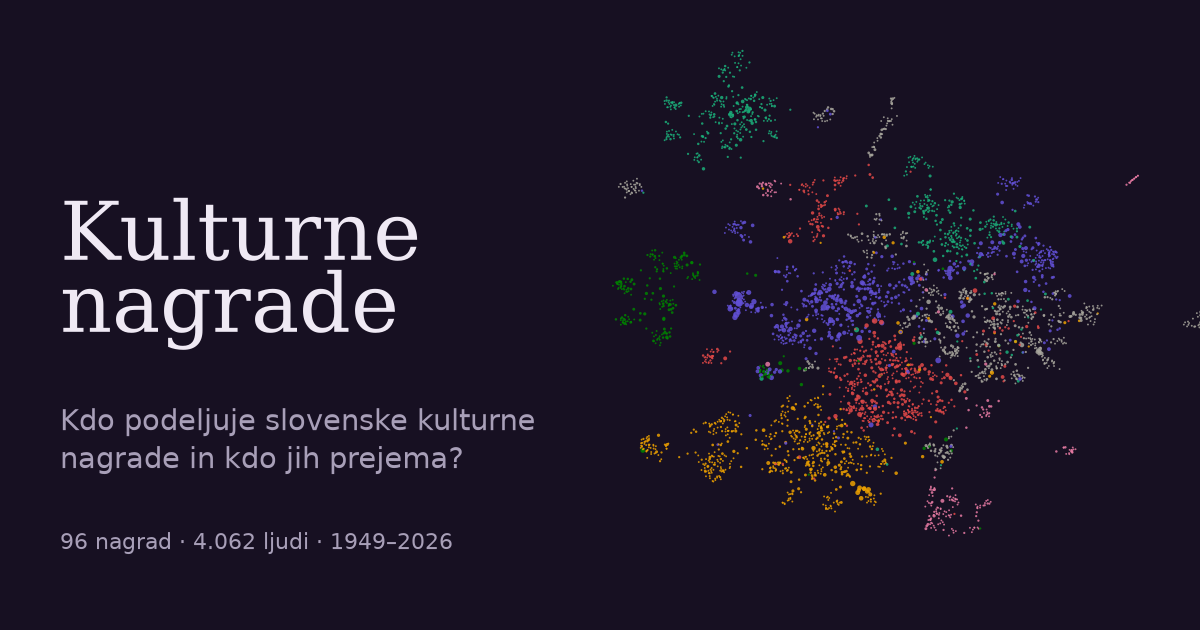
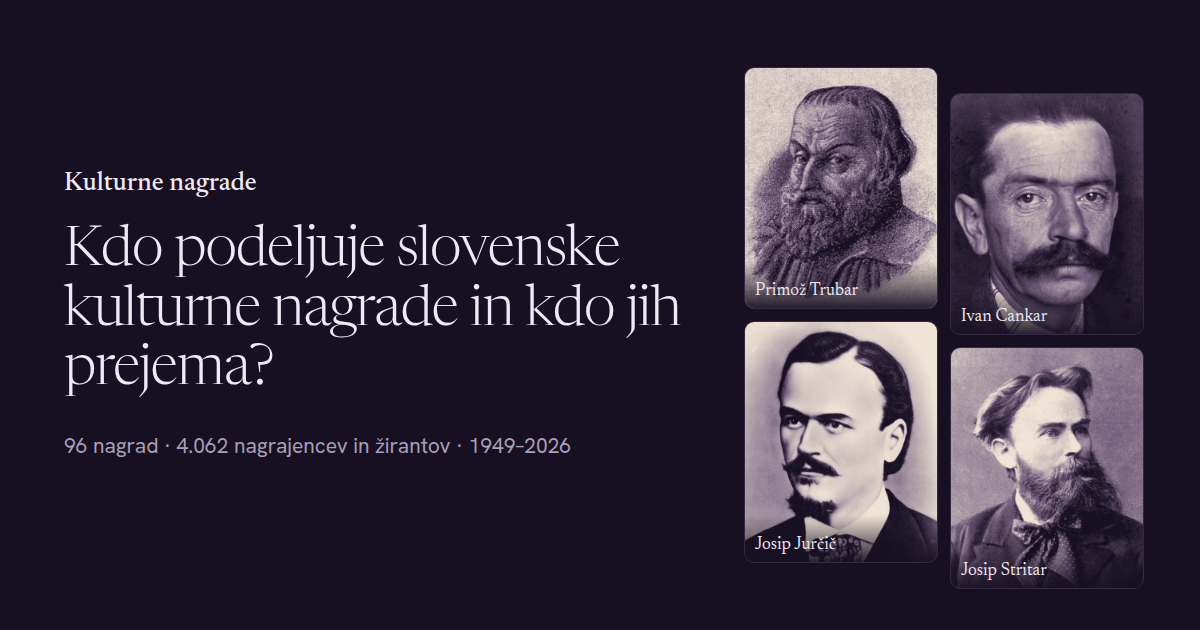
Home page: portraits of four award namesakes instead of the network map; new share card
Trubar, Cankar, Jurčič and Stritar (Wikimedia Commons, public domain; originals in
docs/img) toned to the site palette, each linking to the award named after them. The
default Open Graph card is rendered from HTML with headless Chrome in the site's fonts.
deploy_site.py uploads only files changed since the last upload (hash manifest).

diff --git a/src/kulturne_nagrade/site_export.py b/src/kulturne_nagrade/site_export.py
@@ -20,6 +20,7 @@ import json
 import math
 import shutil
 from collections import defaultdict
+from pathlib import Path
 
 import pandas as pd
 
@@ -215,9 +216,72 @@ def map_points(meta: dict) -> dict | None:
     return {"fields": fields, "points": pts}
 
 
+FACES = [("trubar", "Primož Trubar"), ("cankar", "Ivan Cankar"), ("jurcic", "Josip Jurčič"),
+         ("stritar", "Josip Stritar")]  # site/public/img/obrazi, as on the home page
+
+OG_HTML = """<!doctype html><html lang="sl"><head><meta charset="utf-8"><style>
+@font-face {{ font-family: N; font-weight: 200 800; src: url("{fonts}/newsreader/files/newsreader-latin-opsz-normal.woff2"); }}
+@font-face {{ font-family: N; font-weight: 200 800; src: url("{fonts}/newsreader/files/newsreader-latin-ext-opsz-normal.woff2");
+  unicode-range: U+0100-024F, U+1E00-1EFF, U+2020, U+20A0-20AB, U+20AD-20C0, U+2113, U+2C60-2C7F, U+A720-A7FF; }}
+@font-face {{ font-family: H; font-weight: 100 900; src: url("{fonts}/hanken-grotesk/files/hanken-grotesk-latin-wght-normal.woff2"); }}
+@font-face {{ font-family: H; font-weight: 100 900; src: url("{fonts}/hanken-grotesk/files/hanken-grotesk-latin-ext-wght-normal.woff2");
+  unicode-range: U+0100-024F, U+1E00-1EFF, U+2020, U+20A0-20AB, U+20AD-20C0, U+2113, U+2C60-2C7F, U+A720-A7FF; }}
+* {{ box-sizing: border-box; margin: 0; }}
+html, body {{ width: 1200px; height: 630px; overflow: hidden; background: #171022; color: #efe9f4; }}
+body {{ display: grid; grid-template-columns: 640px 1fr; padding: 0 56px 0 64px; gap: 40px; align-items: center; }}
+.brand {{ font: 500 26px N, serif; margin-bottom: 26px; }}
+h1 {{ font: 300 56px/1.06 N, serif; letter-spacing: -.02em; font-variation-settings: "opsz" 72; }}
+.nums {{ font: 400 21px H, sans-serif; color: #a89fb8; margin-top: 30px; }}
+.faces {{ display: grid; grid-template-columns: 1fr 1fr; gap: 12px; }}
+.face {{ position: relative; border-radius: 10px; overflow: hidden; border: 1px solid #322845; }}
+.face:nth-child(2n) {{ transform: translateY(26px); }}
+.face img {{ display: block; width: 100%; aspect-ratio: 4 / 5; object-fit: cover; }}
+.face span {{ position: absolute; left: 0; right: 0; bottom: 0; padding: 22px 10px 8px; font: 400 17px N, serif;
+  background: linear-gradient(0deg, rgba(23,16,34,.92), rgba(23,16,34,0)); }}
+</style></head><body>
+<div><div class="brand">Kulturne nagrade</div>
+<h1>Kdo podeljuje slovenske kulturne nagrade in kdo jih prejema?</h1>
+<div class="nums">{nums}</div></div>
+<div class="faces">{faces}</div>
+</body></html>"""
+
+
 def og_default(meta: dict) -> Path:
-    """The site-wide Open Graph card (1200 x 630): title, a line of numbers and the
-    network map as the image. Per-page cards come later and use the same frame."""
+    """The site-wide Open Graph card (1200 x 630) in the site's design: the headline, a
+    line of numbers and the portraits of four award namesakes, rendered from HTML with
+    headless Chrome (so the site's own fonts are used). Falls back to a matplotlib card
+    with the network map when Chrome is not installed."""
+    import shutil as sh
+    import subprocess
+    import tempfile
+
+    chrome = next((c for c in ("google-chrome", "google-chrome-stable", "chromium",
+                               "chromium-browser") if sh.which(c)), None)
+    if chrome:
+        out = SITE / "public" / "og" / "privzeto.png"
+        out.parent.mkdir(parents=True, exist_ok=True)
+        c = meta["counts"]
+        nums = (f"{c['awards']} nagrad · {c['people']:,} nagrajencev in žirantov · "
+                f"{c['years'][0]}–{c['years'][1]}").replace(",", ".")
+        img = SITE / "public" / "img" / "obrazi"
+        faces = "".join(f'<div class="face"><img src="{(img / f"{k}.webp").as_uri()}">'
+                        f"<span>{n}</span></div>" for k, n in FACES)
+        html = OG_HTML.format(fonts=(SITE / "node_modules" / "@fontsource-variable").as_uri(),
+                              nums=nums, faces=faces)
+        with tempfile.TemporaryDirectory() as tmp:
+            page = Path(tmp) / "og.html"
+            page.write_text(html, encoding="utf-8")
+            subprocess.run([chrome, "--headless=new", "--disable-gpu", "--hide-scrollbars",
+                            "--allow-file-access-from-files", "--force-device-scale-factor=1",
+                            "--window-size=1200,630", "--virtual-time-budget=4000",
+                            f"--screenshot={out}", page.as_uri()],
+                           check=True, capture_output=True, timeout=120)
+        return out
+    return _og_default_map(meta)
+
+
+def _og_default_map(meta: dict) -> Path:
+    """Fallback card: title, numbers and the network map (matplotlib)."""
     import matplotlib.pyplot as plt
 
     nodes = RESULTS / "network" / "nodes.csv"

diff --git a/scripts/deploy_site.py b/scripts/deploy_site.py
@@ -3,6 +3,10 @@
     uv run python scripts/deploy_site.py            # build + upload
     uv run python scripts/deploy_site.py --no-build # upload site/dist as it is
     uv run python scripts/deploy_site.py --no-build --from 3500   # resume after file 3500
+    uv run python scripts/deploy_site.py --full     # upload every file, not only changed ones
+
+Only files that changed since the last upload are sent (site/.deploy-manifest.json keeps
+a hash of each uploaded file; git-ignored).
 
 The host's firewall (Imunify360) may block an IP that opens too many transfers too fast,
 so the upload pauses briefly every 200 files. Files are uploaded in sorted order, so a
@@ -23,6 +27,8 @@ from __future__ import annotations
 
 import argparse
 import ftplib
+import hashlib
+import json
 import os
 import re
 import subprocess
@@ -33,6 +39,15 @@ from urllib.parse import urlparse
 ROOT = Path(__file__).resolve().parents[1]
 CONF = ROOT / "docs" / "deployment" / "remote_ftp.txt"
 DIST = ROOT / "site" / "dist"
+MANIFEST = ROOT / "site" / ".deploy-manifest.json"  # path -> sha1 of what is on the server
+
+
+def digest(p: Path) -> str:
+    return hashlib.sha1(p.read_bytes()).hexdigest()
+
+
+def manifest(folder: Path) -> dict:
+    return {p.relative_to(folder).as_posix(): digest(p) for p in folder.rglob("*") if p.is_file()}
 
 
 def config() -> dict:
@@ -52,7 +67,7 @@ def build(c: dict) -> None:
     subprocess.run(["npx", "astro", "build"], cwd=ROOT / "site", env=env, check=True)
 
 
-def upload(c: dict, start: int = 0, pause: float = 5.0) -> None:
+def upload(c: dict, start: int = 0, pause: float = 10.0, full: bool = False) -> None:
     def connect():
         f = ftplib.FTP_TLS(c["host"], timeout=60)
         f.login(c["user"], c["password"])
@@ -73,6 +88,10 @@ def upload(c: dict, start: int = 0, pause: float = 5.0) -> None:
                 made.add(d)
 
     files = sorted(p for p in DIST.rglob("*") if p.is_file())
+    done = json.loads(MANIFEST.read_text()) if MANIFEST.exists() and not full else {}
+    files = [p for p in files if done.get(p.relative_to(DIST).as_posix()) != digest(p)]
+    print(f"{len(files)} files to upload" + ("" if full else " (changed since the last upload)"),
+          flush=True)
     t0, failed = time.time(), []
     for i, p in enumerate(files, 1):
         if i <= start:
@@ -96,22 +115,32 @@ def upload(c: dict, start: int = 0, pause: float = 5.0) -> None:
                 f = connect()
         else:
             failed.append(dest)
+            continue
+        done[p.relative_to(DIST).as_posix()] = digest(p)
         if i % 250 == 0 or i == len(files):
             print(f"{i}/{len(files)} files, {time.time() - t0:.0f} s", flush=True)
     f.quit()
+    MANIFEST.write_text(json.dumps(done, indent=0, sort_keys=True))
     print(f"uploaded to {c['origin']}{c['base']}/" + (f"; {len(failed)} failed" if failed else ""))
 
 
 def main() -> None:
     ap = argparse.ArgumentParser()
     ap.add_argument("--no-build", action="store_true")
+    ap.add_argument("--full", action="store_true", help="upload every file, not only changed ones")
+    ap.add_argument("--seed-manifest", metavar="DIR",
+                    help="record DIR (a copy of what is on the server) as uploaded, then exit")
     ap.add_argument("--from", dest="start", type=int, default=0,
                     help="skip the first N files (resume a stopped upload)")
     a = ap.parse_args()
+    if a.seed_manifest:
+        MANIFEST.write_text(json.dumps(manifest(Path(a.seed_manifest)), indent=0, sort_keys=True))
+        print(f"manifest seeded from {a.seed_manifest}")
+        return
     c = config()
     if not a.no_build:
         build(c)
-    upload(c, a.start)
+    upload(c, a.start, full=a.full)
 
 
 if __name__ == "__main__":
